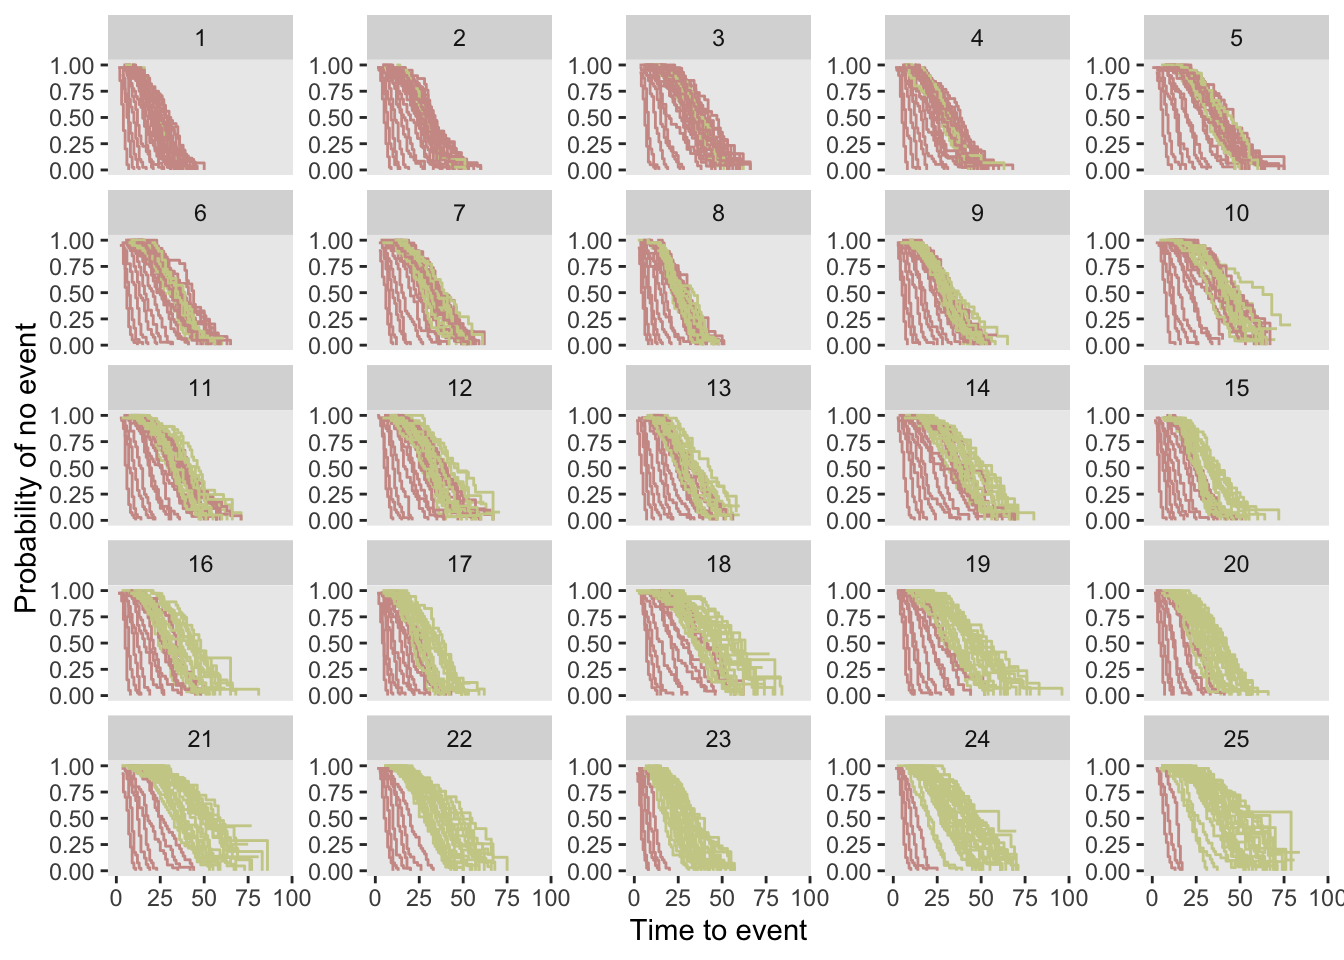
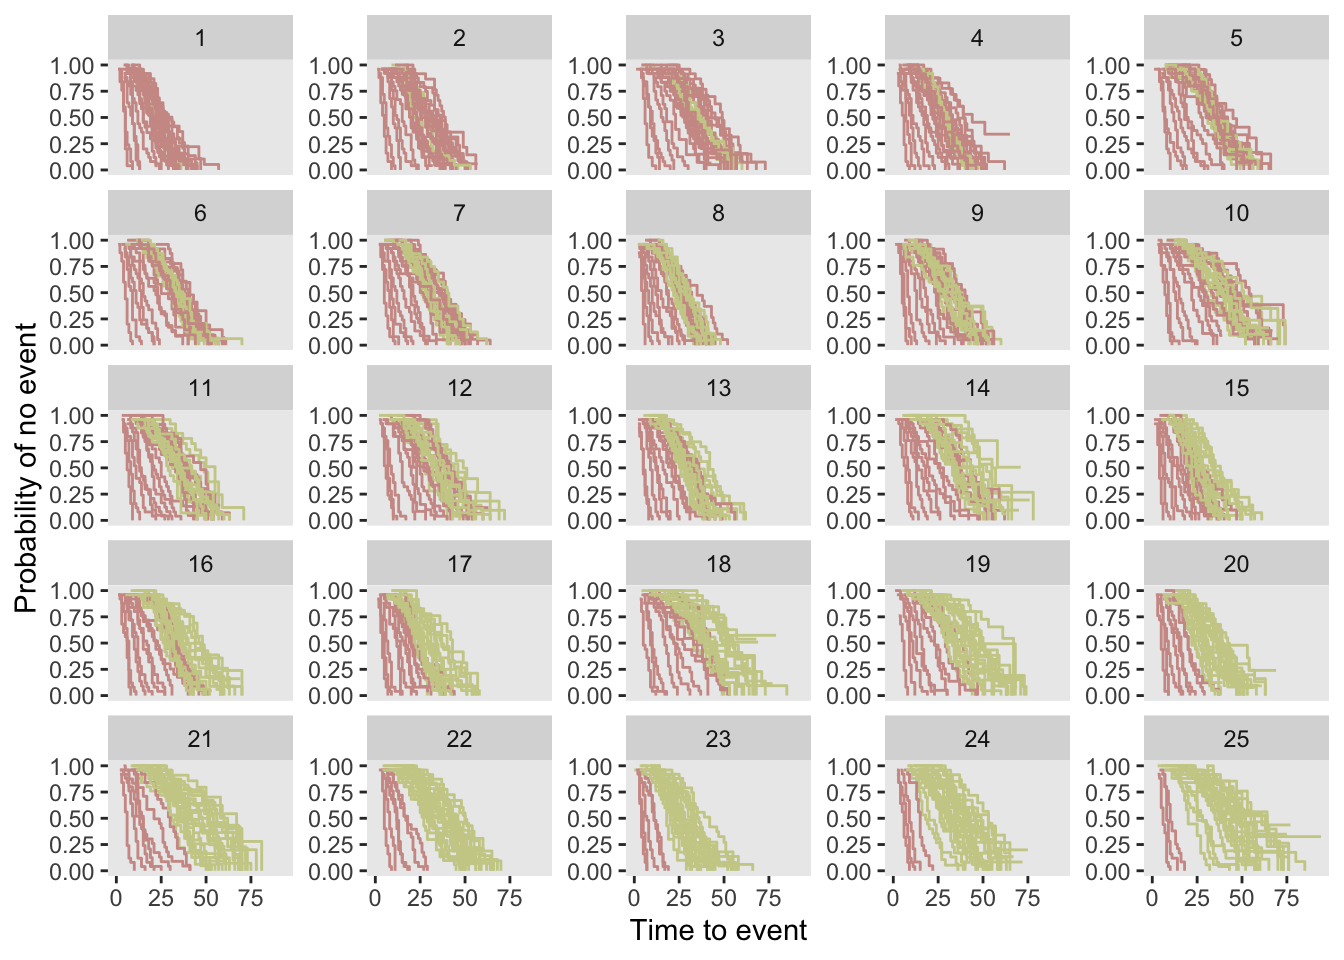
Posting blog

diff --git a/content/post/2025-04-01-bayesian-proportional-hazards-model-for-a-stepped-wedge-design/index.en.html b/content/post/2025-04-01-bayesian-proportional-hazards-model-for-a-stepped-wedge-design/index.en.html
@@ -1,7 +1,7 @@
 ---
 title: Bayesian proportional hazards model for a stepped-wedge design
 author: Package Build
-date: '2025-03-26'
+date: '2025-04-01'
 slug: []
 categories: []
 tags:
@@ -11,7 +11,6 @@ tags:
 type: ''
 subtitle: ''
 image: ''
-draft: TRUE
 ---
 
 
@@ -20,8 +19,8 @@ draft: TRUE
 <p>The model presented here integrates non-linear time trends and cluster-specific random effects—elements we’ve previously explored in isolation. There’s nothing fundamentally new in this post; it brings everything together. Given that the groundwork has already been laid, I’ll keep the commentary brief and focus on providing the code.</p>
 <div id="simulating-data-from-a-stepped-wedge-crt" class="section level3">
 <h3>Simulating data from a stepped-wedge CRT</h3>
-<p>I’ll generate a single data set for 25 sites, each site enrolling study participants over a 30-month period. Sites will transition from control to intervention sequentially, with one new site starting each month. Each site will enroll 40 patients each month.</p>
-<p>The outcome (<span class="math inline">\(Y\)</span>) is the number of days to an event, with each participant followed for up to 90 days. The treatment (<span class="math inline">\(A\)</span>) reduces the time to event. Survival times also depend on the enrollment month—an effect I’ve exaggerated for illustration. Additionally, each site <span class="math inline">\(i\)</span> has a site-specific effect <span class="math inline">\(b_i\)</span>, which influences the time to event among its participants.</p>
+<p>I’ll generate a single data set for 25 sites, each site enrolling study participants over a 30-month period. Sites will transition from control to intervention sequentially, with one new site starting each month. Each site will enroll 25 patients each month.</p>
+<p>The outcome (<span class="math inline">\(Y\)</span>) is the number of days to an event. The treatment (<span class="math inline">\(A\)</span>) reduces the time to event. Survival times also depend on the enrollment month—an effect I’ve exaggerated for illustration. Additionally, each site <span class="math inline">\(i\)</span> has a site-specific effect <span class="math inline">\(b_i \sim N(\mu=0, \sigma = 0.5)\)</span>, which influences the time to event among its participants.</p>
 <p>Here are the libraries needed for the code shown here:</p>
 <pre class="r"><code>library(simstudy)
 library(data.table)
@@ -69,7 +68,7 @@ ds &lt;- trtStepWedge(ds, &quot;site&quot;, nWaves = 25,
 
 ### Individual level data
 
-dd &lt;- genCluster(ds, &quot;timeID&quot;, numIndsVar = 40, level1ID = &quot;id&quot;) 
+dd &lt;- genCluster(ds, &quot;timeID&quot;, numIndsVar = 25, level1ID = &quot;id&quot;) 
 dd &lt;- genSurv(dd, defS, timeName = &quot;Y&quot;, censorName = &quot;censorTime&quot;, digits = 0,
               eventName = &quot;event&quot;, typeName = &quot;eventType&quot;)
 
@@ -82,7 +81,7 @@ dd &lt;- dd[, .(id, site, k, A, Y, event)]</code></pre>
 </div>
 <div id="model-estimation" class="section level3">
 <h3>Model estimation</h3>
-<p>The integrated model has quite a few parts relative to the earlier models, but nothing is really new. There is a penalized spline for the effect of time and a random effect for each site. The primary parameter of interest is still <span class="math inline">\(\beta\)</span>.</p>
+<p>This model has quite a few components relative to the earlier models, but nothing is really new. There is a penalized spline for the effect of time and a random effect for each site. The primary parameter of interest is still <span class="math inline">\(\beta\)</span>.</p>
 <p>For completeness, here is the model specification:</p>
 <p><span class="math display">\[
 \log L(\beta) = \sum_{j=1}^{J} \left[ \sum_{i \in D_j}  \left(\beta A_i + \sum_{m=1} ^ M \gamma_m X_{m_i} + b_{s[i]} \right) - \sum_{r=0}^{d_j-1} \log \left( \sum_{k \in R_j}  \left(\beta A_k + \sum_{m=1} ^ M \gamma_m X_{m_i} + b_{s[k]} \right) - r \cdot \bar{w}_j \right) \right] - \lambda \sum_{m=1}^{M} \left( Q^{(2)} \gamma \right)_m^2
@@ -295,20 +294,20 @@ stan_data &lt;- list(
   refresh = 0
 )</code></pre>
 <pre><code>## Running MCMC with 4 parallel chains...</code></pre>
-<pre><code>## Chain 2 finished in 4332.8 seconds.
-## Chain 4 finished in 6617.2 seconds.
-## Chain 3 finished in 6866.8 seconds.
-## Chain 1 finished in 7127.5 seconds.
+<pre><code>## Chain 4 finished in 1847.8 seconds.
+## Chain 1 finished in 2202.8 seconds.
+## Chain 3 finished in 2311.8 seconds.
+## Chain 2 finished in 2414.9 seconds.
 ## 
 ## All 4 chains finished successfully.
-## Mean chain execution time: 6236.1 seconds.
-## Total execution time: 7128.0 seconds.</code></pre>
+## Mean chain execution time: 2194.3 seconds.
+## Total execution time: 2415.3 seconds.</code></pre>
 <pre class="r"><code>fit_mcmc$summary(variables = c(&quot;beta&quot;, &quot;sigma_b&quot;))</code></pre>
 <pre><code>## # A tibble: 2 × 10
 ##   variable  mean median     sd    mad    q5   q95  rhat ess_bulk ess_tail
 ##   &lt;chr&gt;    &lt;dbl&gt;  &lt;dbl&gt;  &lt;dbl&gt;  &lt;dbl&gt; &lt;dbl&gt; &lt;dbl&gt; &lt;dbl&gt;    &lt;dbl&gt;    &lt;dbl&gt;
-## 1 beta[1]  0.796  0.796 0.0237 0.0233 0.757 0.835  1.00    5128.    6782.
-## 2 sigma_b  0.549  0.540 0.0814 0.0757 0.433 0.695  1.00    4533.    5262.</code></pre>
+## 1 beta[1]  0.815  0.815 0.0298 0.0298 0.767 0.865  1.00    3513.    5077.
+## 2 sigma_b  0.543  0.535 0.0775 0.0739 0.432 0.683  1.00    3146.    5110.</code></pre>
 </div>
 <div id="estimating-a-frequentist-random-effects-model" class="section level3">
 <h3>Estimating a “frequentist” random-effects model</h3>
@@ -319,21 +318,20 @@ summary(frailty_model)</code></pre>
 ##  Formula: Surv(Y, event) ~ A + ns(k, df = 3) + (1 | site) 
 ##     Data: dd 
 ## 
-##   events, n = 23897, 30000
+##   events, n = 14989, 18750
 ## 
 ## Random effects:
-##   group  variable       sd  variance
-## 1  site Intercept 0.534326 0.2855043
+##   group  variable        sd  variance
+## 1  site Intercept 0.5306841 0.2816256
 ##                   Chisq    df p   AIC   BIC
-## Integrated loglik 28945  5.00 0 28935 28894
-##  Penalized loglik 29103 27.91 0 29047 28822
+## Integrated loglik 18038  5.00 0 18028 17990
+##  Penalized loglik 18185 27.85 0 18129 17917
 ## 
 ## Fixed effects:
 ##                    coef exp(coef) se(coef)      z      p
-## A               0.79200   2.20780  0.02346  33.76 &lt;2e-16
-## ns(k, df = 3)1 -2.69034   0.06786  0.03511 -76.62 &lt;2e-16
-## ns(k, df = 3)2  1.19665   3.30900  0.06178  19.37 &lt;2e-16
-## ns(k, df = 3)3  4.54958  94.59267  0.03784 120.22 &lt;2e-16</code></pre>
-<p>However, the advantage of the Bayesian model is its flexibility. For example, if you wanted to include site-specific spline curves—analogous to site-specific time effects—you could extend the Bayesian approach to do so. The current Bayesian model implements a study-wide time spline, but incorporating site-specific splines would be a natural extension.</p>
-<p>I initially hoped to implement site-specific splines using the <code>mgcv</code> package, but the models did not converge. I am quite confident that a Bayesian extension would work, though it would likely require substantial computing resources. If someone wants me to try that, I certainly could, but for now, I’ll stop here.</p>
+## A               0.80966   2.24714  0.02959  27.36 &lt;2e-16
+## ns(k, df = 3)1 -2.71392   0.06628  0.04428 -61.29 &lt;2e-16
+## ns(k, df = 3)2  1.04004   2.82933  0.07851  13.25 &lt;2e-16
+## ns(k, df = 3)3  4.48430  88.61492  0.04729  94.83 &lt;2e-16</code></pre>
+<p>However, the advantage of the Bayesian model is its flexibility. For example, if you wanted to include site-specific spline curves—analogous to site-specific time effects—you could extend the Bayesian approach to do so. The current Bayesian model implements a study-wide time spline, but incorporating site-specific splines would be a natural extension. I initially hoped to implement site-specific splines using the <code>mgcv</code> package, but the models did not converge. I am quite confident that a Bayesian extension would, though it would likely require substantial computing resources. If someone wants me to try that, I certainly could, but for now, I’ll stop here.</p>
 </div>
